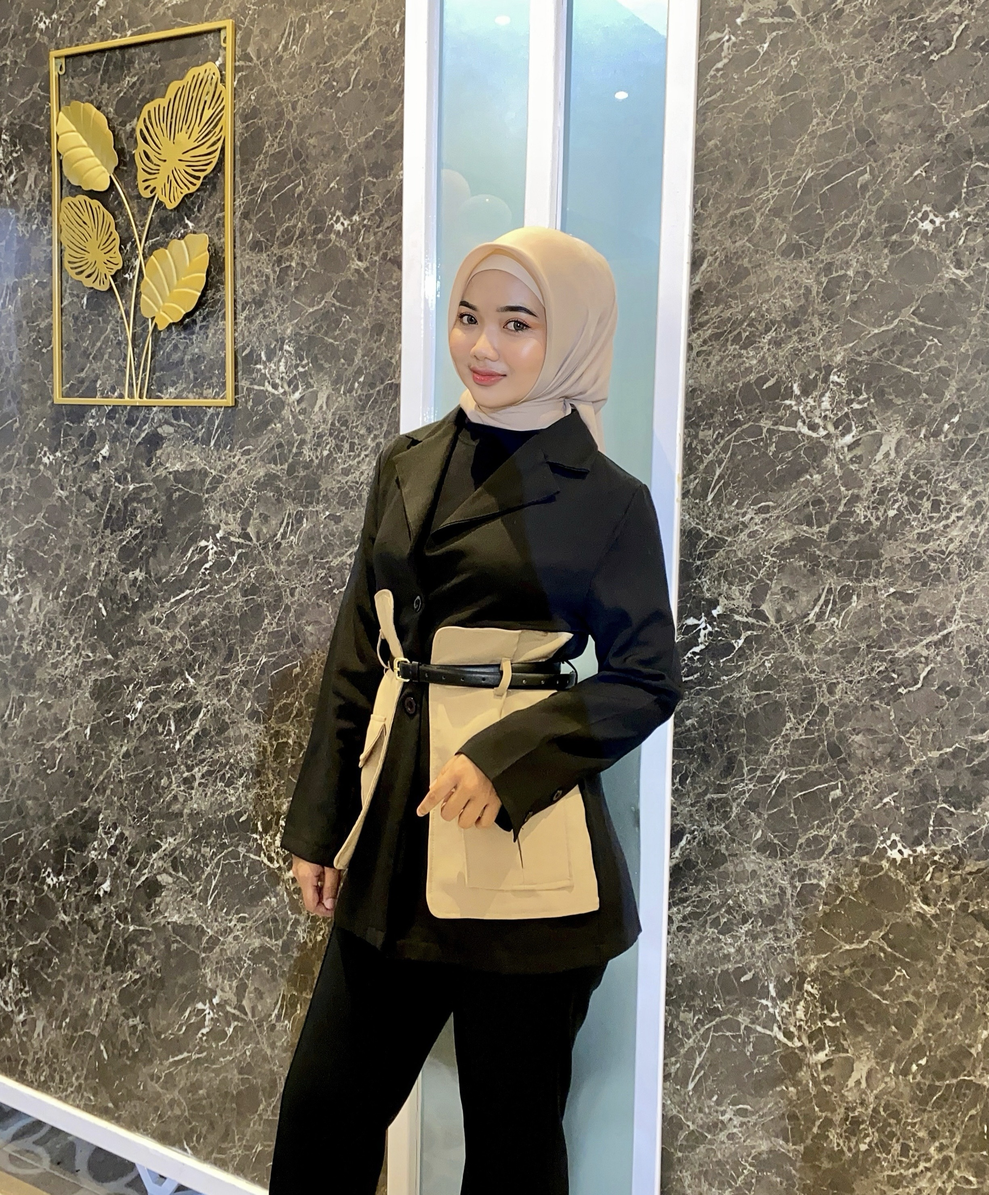
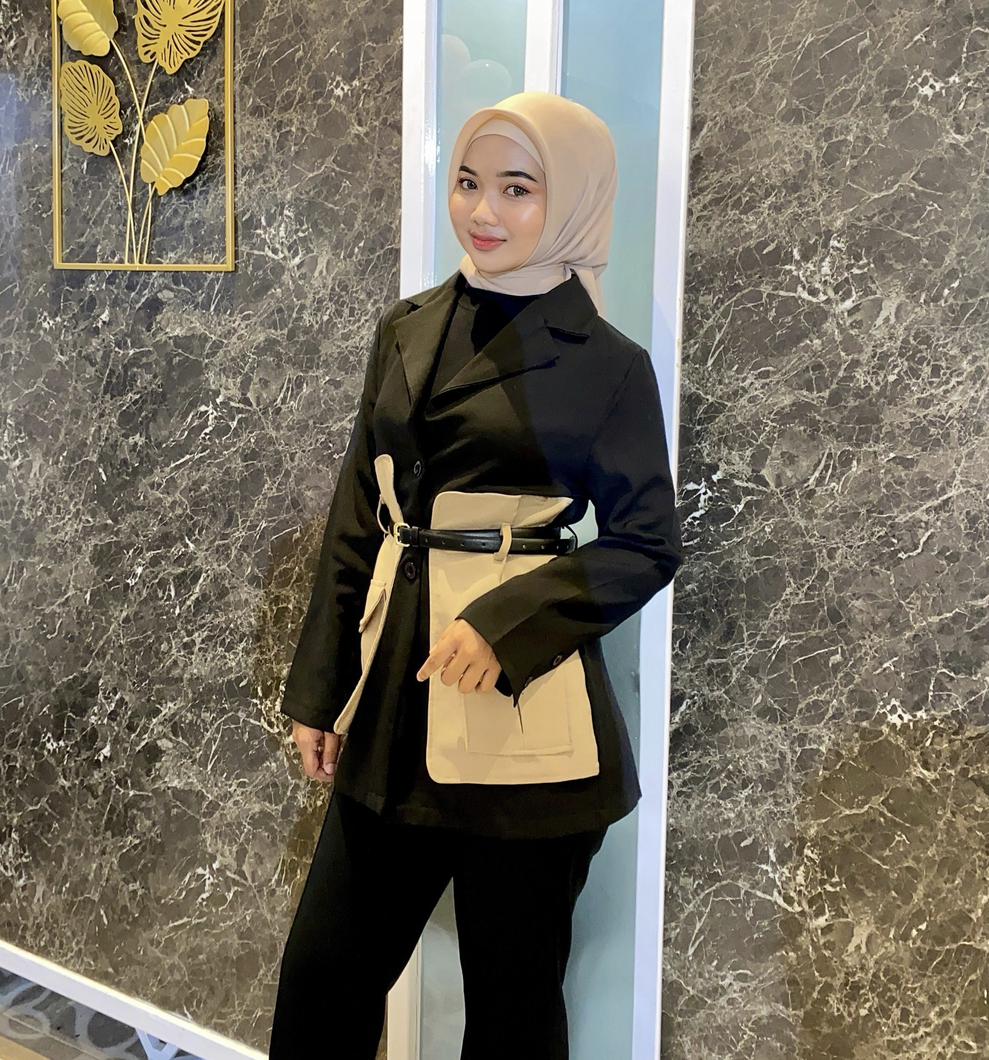
coba paskan ke ats nya yang shelviana nya

diff --git a/src/app/page.jsx b/src/app/page.jsx
@@ -426,7 +426,7 @@ export default function Home() {
                 name="Shelvina Puteri"
                 title="Content Creator & MC"
                 hint="woman influencer"
-                className=""
+                className="object-[center_20%]"
               />
             </div>
             <div className="text-center mt-12">
@@ -496,3 +496,6 @@ export default function Home() {
   );
 }
 
+
+
+    

diff --git a/src/app/seminar/page.jsx b/src/app/seminar/page.jsx
@@ -94,7 +94,7 @@ export default function SeminarPage() {
                 image="/image/shelvina.jpg"
                 hint="woman influencer"
                 imagePosition="right"
-                imageClassName=""
+                imageClassName="object-[center_20%]"
               />
             </div>
           </div>
@@ -114,3 +114,5 @@ export default function SeminarPage() {
     </div>
   );
 }
+
+    
